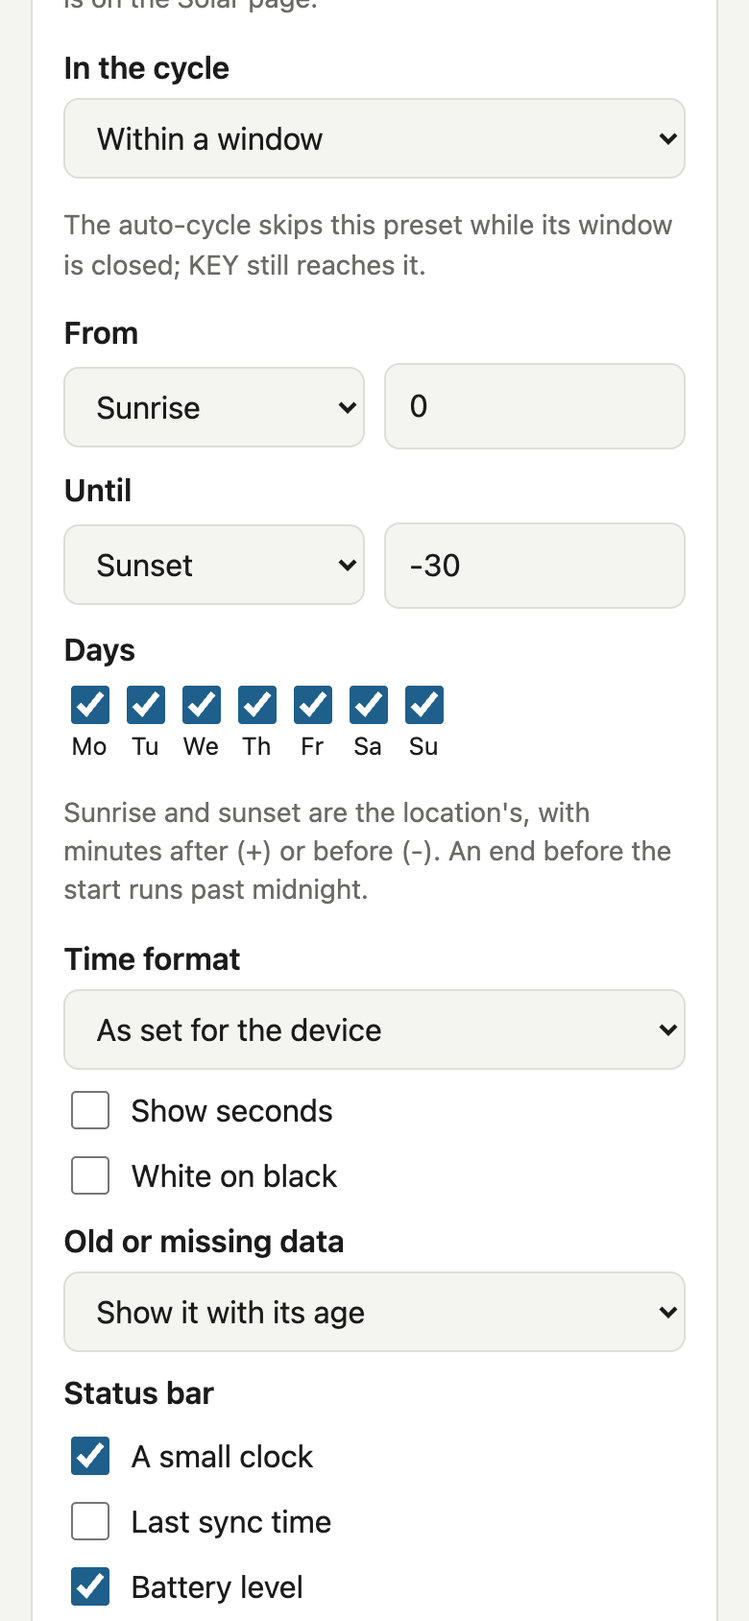
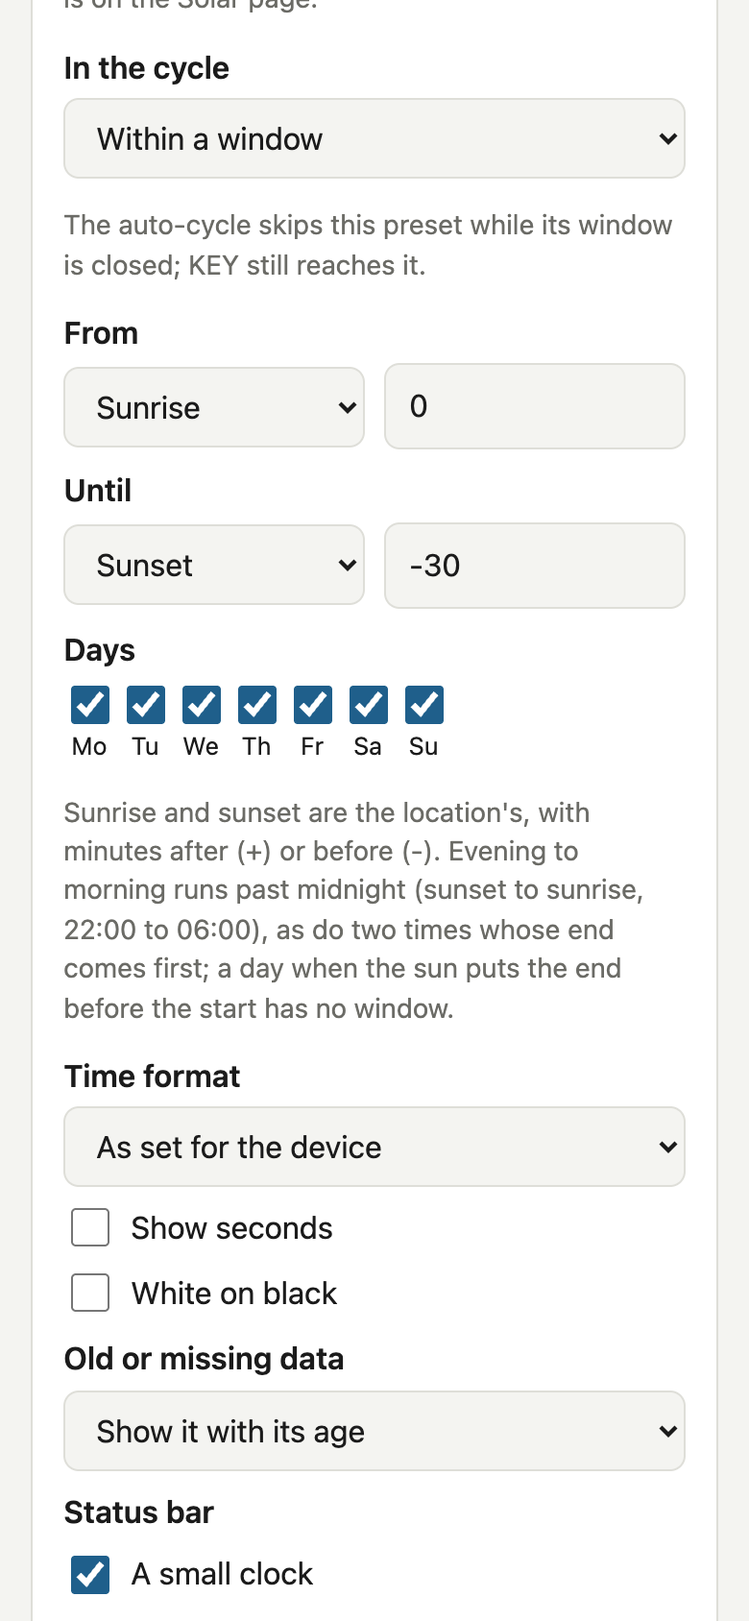
docs: the owner's midnight rule for cycle windows (spec r49, D41)
A window with a sun end runs past midnight only from an evening end to a
morning end; on a day the sun puts its end first it stays closed (§1.2, §5.4,
§17, AGENTS D41). §20 takes the final review's minors and drops the polar
edges the rule removed; the cycle timer's line no longer names preset window,
and the guide says which devices get Solar's window. The Presets page's help
text in its shot follows the rule.

diff --git a/docs/specs/2026-09-25-firmware-design.md b/docs/specs/2026-09-25-firmware-design.md
@@ -80,7 +80,7 @@ reflbo turns the Waveshare ESP32-S3-RLCD-4.2 into a battery-powered desk display
 | D38 | Owner, 2026-10-06 (M6d acceptance): a power under 1 kW shows in whole watts, as the SolaX app does ("382 W", not "0.38 kW"), on every field, the Solar and Energy layouts and the flow; the flow, whose heading carries one unit, shows W while all its powers are under 1 kW. Solcast's check with the owner's key waits for later | "0.39 kW" and "0.00 kW" told less than the app's watts in the evening; the flow's numbers have no room for units of their own |
 | D39 | Owner, 2026-10-06 (M6d acceptance): the Developer API's solar output is the app's figure, what the panels give through the inverter (its AC output, with a battery's charge, at most the panels' DC power), not the panels' DC power; the past bars from SolaX's 5-minute history stay an option for later (§19); the owner's roof checked; the power measurement and Solcast's check come at the project's end; this build becomes `stable-m6d` | The app's Solar equals Home when the grid is at 0 (382 W both): it shows the inverter's output, about 5 % under the panels' 1471 W against 1397 W |
 | D40 | Owner, 2026-10-06 (M7's plan refreshed against M6c and M6d, D33): M7 also brings an MQTT source for the house's energy, beside SolaX's two (§11.6, §12.11); state labels for text fields and a time kind for timestamps, so any HA entity reads well on the panel (§12.5); HA's `unknown` and `unavailable` count as no value; the device publishes no `pv.*` or `energy.*` values to HA; the checks with HA still wait for the owner's broker; the plan runs Native | Any HA entity as a field was the aim (D7); raw states (`on`, `not_home`) and timestamps read badly; the owner's house may report its energy to HA by other means than SolaX Cloud |
-| D41 | Owner, 2026-10-09: presets get a cycle window (§5.4): from and until, each a local time or sunrise or sunset with an offset of up to 3 h, crossing midnight when until comes first, and the days it opens on; only the auto-cycle skips a preset whose window is closed: KEY short, the schedule, the menu, the web UI and HA still reach it, and a preset on screen when its window closes stays until the cycle's next step; built now as M6e, before M7. M7 also publishes the sync's status to HA (Sync problem, Sync error, Last successful sync, Next sync; §12.2, §12.3), built with M7. Sync now stays where it is (Menu ▸ Sync ▸ Sync now) | The Solar preset says little after sundown, so it should leave the cycle then and come back in the morning; HA should know when the board's syncs fail |
+| D41 | Owner, 2026-10-09: presets get a cycle window (§5.4): from and until, each a local time or sunrise or sunset with an offset of up to 3 h, crossing midnight when until comes first, and the days it opens on; only the auto-cycle skips a preset whose window is closed: KEY short, the schedule, the menu, the web UI and HA still reach it, and a preset on screen when its window closes stays until the cycle's next step; built now as M6e, before M7. M7 also publishes the sync's status to HA (Sync problem, Sync error, Last successful sync, Next sync; §12.2, §12.3), built with M7. Sync now stays where it is (Menu ▸ Sync ▸ Sync now). Owner, 2026-10-19 (M6e's final review): a window with a sun end runs past midnight only from an evening end to a morning end, so ends that swap order with the seasons leave it closed rather than a day long | The Solar preset says little after sundown, so it should leave the cycle then and come back in the morning; HA should know when the board's syncs fail |
 | D42 | Owner, 2026-10-12 (asked in the T5 fork, its DT14, and backported): a preset can be exported from the web page to a file and imported on another device; every slot and split cell can carry its own title in place of its field's label; a split cell can show its title always, whatever its size (§5.2, §5.4, §10.3) | A split preset built on one device is wanted on another, and the owner's sensors and entities want the owner's names |
 | D43 | Owner, 2026-10-13 (asked in the T5 fork, its DT15, and backported): a preset can show the last good sync's time in the status bar, on the left after the marks; today's time, an earlier day's weekday and time, a date after a week (§5.2, §5.4, §10.3) | How old the data is, at a glance, without opening the menu |
 
@@ -474,8 +474,8 @@ A preset is a layout, a slot → field binding and a set of options. Presets are
   - A preset entry's switch is not saved, like an auto-cycle switch.
   - Until the web UI (M4), the `schedule` console command edits the entries (§15).
 - **Cycle windows** (M6e, D41). A preset may carry `"window": { "from": "sunrise", "until": "sunset-30", "days": 127 }`, beside `in_cycle`: the auto-cycle visits it only while its window is open.
-  - A bound is a local time, `"HH:MM"`, or `"sunrise"` or `"sunset"` with an optional offset of 1–180 minutes (`"sunset+30"`, `"sunrise-15"`). Sun times are those of the day the bound falls on, at the device's location (`astro`, §11). Where the sun doesn't rise or set that day, a polar day runs from midnight to midnight (sunrise at 00:00, sunset at 24:00) and a polar night the other way round (sunrise at 24:00, sunset at 00:00). As built: r45's 12:00 for both ends of a polar night made sunrise → sunset a day-long window. So in a polar night sunrise → sunset is empty and sunset → sunrise spans the day; the first day after a polar night opens sunrise → sunset at midnight, and a window with one sun end and one clock end is open for part of a polar night's day.
-  - A window opens on each day `days` names (the schedule's Mon–Sun mask, every day when missing) at `from`, and closes at `until` that day, or the next day when `until` comes at or before `from` that day: `sunset` → `sunrise` spans the night. A local time that a DST change skips counts from the next valid minute, as alarms do (§9.2). As built, two clock ends cross midnight by the clock face, when `until` is at or before `from`: 02:00–02:30 on the spring-forward night, both ends falling at 03:00, is empty that night rather than a day long. A sun end can fall on the day before: `sunrise-180` where the sun rises at 01:00 opens the window at 22:00 the evening before its day.
+  - A bound is a local time, `"HH:MM"`, or `"sunrise"` or `"sunset"` with an optional offset of 1–180 minutes (`"sunset+30"`, `"sunrise-15"`). Sun times are those of the day the bound falls on, at the device's location (`astro`, §11). Where the sun doesn't rise or set that day, a polar day runs from midnight to midnight (sunrise at 00:00, sunset at 24:00) and a polar night the other way round (sunrise at 24:00, sunset at 00:00). As built: r45's 12:00 for both ends of a polar night made sunrise → sunset a day-long window. So in a polar night sunrise → sunset is empty and sunset → sunrise spans the day.
+  - A window opens on each day `days` names (the schedule's Mon–Sun mask, every day when missing) at `from`, and closes at `until`: the same day, or the next day for a window that runs past midnight. Whether it does is decided by its ends, not by a day's sun (owner, 2026-10-19, D41): two clock ends by the clock face, when `until` is at or before `from` (`22:00` → `06:00`); with a sun end, from an evening end (`sunset` with any offset, or a time from 12:00) to a morning end (`sunrise` with any offset, or a time before 12:00): `sunset` → `sunrise` and `22:00` → `sunrise` span the night. On a day when the sun puts the end at or before the start, the window stays closed: `18:00` → `sunset` in winter, `06:00` → `sunrise` in summer, `sunrise` → `sunset` in a polar night, and the first day after one opens at its sunrise. (Until 2026-10-19 each day decided from its own sun times, so such a window ran almost a day for months.) A local time that a DST change skips counts from the next valid minute, as alarms do (§9.2); 02:00–02:30 on the spring-forward night, both ends falling at 03:00, is empty that night rather than a day long. A sun end can fall on the day before: `sunrise-180` where the sun rises at 01:00 opens the window at 22:00 the evening before its day.
   - Only the auto-cycle looks at windows: it steps to the next preset in cycle order whose window is open (Flights still only in sync mode `always`), and keeps the one shown when none is. KEY short, `cmd/next` (§12.4), schedule entries, the menu, the web UI and HA's select still reach every preset. A preset on screen when its window closes stays until the cycle's next step; with the auto-cycle off it stays.
   - Without a valid time every window counts as open, as the schedule's entries don't run then either.
   - A preset without `window` is always open, so earlier files work unchanged.
@@ -1382,7 +1382,7 @@ pyserial comes from the ESP-IDF Python environment. The generators run through `
   - M6d (D35, D36): the PV model against known irradiance and temperatures; each forecast parser on recorded replies (Open-Meteo, Forecast.Solar with and without a key, Solcast) and their refusals; the local quarter hours across DST, the midnight roll-over, Solcast's budget; the SolaX parser on recorded replies (a string inverter, a hybrid, `success: false`), the signs, the battery's auto rule, the midnight totals and the quarter-hour actuals; `sync.steps`, `solar.*` and `energy.*` in the settings and the steps that are off in the sync plan; the `pv.*` and `energy.*` fields and widgets; goldens of the spike's renders (the Solar and Energy layouts with their variants, the fields in Classic, Grid, Weather and Focus); the Solar page and the step switches against the fake device, the keys write-only.
   - As built (M6d): `test_solar`, `test_energy`, `test_energy_dev` (D37: the requests, the token's, plants', devices', real-time and statistics replies and their refusals, the signs in a residential and a commercial plant, a hybrid's battery, the reading with and without today's row), `test_settings` (the steps, the sources, the region, the keys never in the file), `test_ui_fields`, `test_ui_solar`, `test_ui_widget_fit` (every cell size, fifteen sets of data, about 40 s, 4 min under ASan), `test_ui_preset`, `test_ui_menu`, `test_sync_plan`, `test_util_url`, `test_util_json` and twelve goldens; 66 host targets, all also under ASan and UBSan; 54 page tests. Task 12 checked on the board: the layouts with the sample day, Open-Meteo and Forecast.Solar through Check now, keys write-only through the API, a switched-off step making no request, the forecast through deep sleep and a cold boot, the heap, the stack and a sync's length, and a restore of the owner's configuration.
   - M6e (D41): a cycle window's bounds (times, sunrise and sunset with offsets, across midnight, the days, a DST change, polar days and nights), the auto-cycle's rule (a closed window skipped, KEY short not, none open), `presets.json`'s windows (a round trip and the refusals), and the page's window editor.
-  - As built (M6e): `test_ui_window` (new: the bounds' words, the rules, open and change times in Brno, Reykjavik and Longyearbyen, across both DST changes, polar days and nights, a window opening the evening before) and `test_ui_preset` (the windows in the file and their refusals, the auto-cycle's step, Solar's window, the longest refusal whole in `UI_PRESET_ERR_LEN`); 67 host targets and 58 page tests at M6e, 69 and 73 with D42 and D43. Task 5 checked on the board (2026-10-19): the console's refusals; a window closing while the cycle ran every 10 s, after which the cycle kept the other preset and KEY still reached the closed one; Solar's state following a move to Sydney without a restart; the page's window editor and its refusal before a save; the windows through a restart, a deep sleep and `stable-m6d` reading the file; a restore of the owner's configuration. Then, with main's D42 and D43: titles and forced titles on the panel, Export and Import on the board's page, the last sync's time after a sync, and a refusal's whole reason in the preview.
+  - As built (M6e): `test_ui_window` (new: the bounds' words, the rules, open and change times in Brno, Reykjavik and Longyearbyen, across both DST changes, polar days and nights, a window opening the evening before, ends that swap order with the seasons) and `test_ui_preset` (the windows in the file and their refusals, the auto-cycle's step, Solar's window, the longest refusal whole in `UI_PRESET_ERR_LEN`); 67 host targets and 58 page tests at M6e, 69 and 73 with D42 and D43. Task 5 checked on the board (2026-10-19): the console's refusals; a window closing while the cycle ran every 10 s, after which the cycle kept the other preset and KEY still reached the closed one; Solar's state following a move to Sydney without a restart; the page's window editor and its refusal before a save; the windows through a restart, a deep sleep and `stable-m6d` reading the file; a restore of the owner's configuration. Then, with main's D42 and D43: titles and forced titles on the panel, Export and Import on the board's page, the last sync's time after a sync, and a refusal's whole reason in the preview.
   - Preset and settings JSON: validation and migrations.
   - Config files: the atomic write and the `.bak` fallback, in a scratch directory.
   - M7: `ha_mqtt`'s topics, golden JSON for every discovery entity and the state, payload parsing (numbers, text, `json_path`), commands, the mappings' codec and validation, the discovery hash and `expire_after`; the `mqtt.<key>` and `ha.message` fields, goldens of the message banner, presets with an unmapped key; the MQTT step not failing a sync; the MQTT page against the fake device (the write-only password, the mappings editor, Test connection).
@@ -1542,8 +1542,9 @@ Owner question, 2026-10-01, after the flight radar; MeteoPlaneRadar shows one to
 | Open after M6c's review (minors): narrow one-line XS pollen cuts its word where its level bar fits; an XS date in a 40–43 px one-line cell cuts its weekday where the day alone fits; a 12-hour clock in narrow stacked XS cells loses AM/PM though there is room under it; S pollen's level word is cut in narrow short cells; the ↓/↑ mark crowds a negative value in narrow short S cells; the largest-values test data's PM is 255, which means none, so it isn't drawn; the cut and stale-mark checks run on sampled XS and short-S sizes, not on all 2451; Weather's 200×118 slots draw the air quality's word 2 px further left, and a Czech holiday whole without its icon, and Classic's slots draw polar words in sans 12; a cell 1 px wider can draw its value smaller across XS and S; the editor's 28 px a level crowds deep trees on a phone | Deferred (D25's rule): raised where a later milestone touches their code |
 | Open after M6d's reviews (minors): the plan's four: the battery's auto rule lists SolaX's V4.0 hybrid types 2, 3, 5, 10 and 13 but not the G4 ones (14, 15 and maybe more; a charge above 0 % covers a battery that reports one); "No solar forecast yet", and the Energy layout's "No data from the inverter yet", also show when an old forecast or reading has expired; Solcast's first fetch after sunrise makes today the rest of the day, so the morning comes from the last forecast or not at all; there is no daily count of Solcast's calls (the 3 h and 6 h waits keep under 10). The execution's five: SolaX's own refusal text can be cut inside a UTF-8 character (the panel's decoder stops cleanly at it); a Sync ▸ Steps switch in the menu plans no sync (turning Weather on with no forecast waits for the next scheduled one); Check now during `always`' 5-minute refresh answers 409 instead of waiting for it; the Sync page shows "kept: kept" for Solcast's budget; `solar.bin` is rewritten after a failed Open-Meteo or Forecast.Solar step though nothing in it changed | Raised at M7's planning, where M7 touches their code (D25's rule) |
 | Open after D37's review (minors, 2026-10-06): finding the battery and the meter is all or nothing, and a refusal on the residential plant page ends the search; credentials changed while a step runs can bring the old token and plant back, and a region change resets neither (a generation counter would tie them); `dev_login`'s form body, which holds the secret, isn't wiped after the POST; a numeric `plantId` is read from its first mention in the reply, and only its leading digits; a statistics row dated by its day number alone is missed; `mpptMap` adds every key ending in "Power", a total key included; the battery's auto rule ignores a battery device that was found; the sync task's stack (10 KB) hasn't been measured on the Developer API's deeper path; `energy raw` keeps the last Developer API replies after a switch to the Token ID, and cuts each at 2 KB without a mark; `read_solar` falls back to the constant region, and two comments are stale | Raised at M7's planning; the stack and the replies' forms are checked with `energy raw` and a high-water mark at M6d's acceptance |
-| Open after M6e's review (minors): polar edges as ruled (the first day after a polar night opens sunrise → sunset at midnight, and mixed ends open in a polar night, §5.4); a closed window still scans ahead for its opening when the cycle's step asks no change time; `ui_window.c` repeats `ui_forecast.c`'s sun cache, keyed without the zone; the page shows a stored end it can't read (an offset of 1.5, a cleared time) as 07:00 after a re-render, while Save refuses it; while any window is bad, every preview fails; "In the cycle: All day" shows on presets outside the cycle, and `preset window … off` says "always in the cycle" for one outside it; no host test of a location change, nor page tests of a copied windowed preset and an offset of 1.5; two compound literals leave a padding byte unspecified where a test compares memory; the console reads days in octal from a leading zero, as `schedule add` does | Fix where later work touches the code. The review's tenth, a refusal cut at 96 bytes, was fixed after the board checks found it in the preview too, for any id of four characters or more (`UI_PRESET_ERR_LEN`) |
-| The auto-cycle's first step after the presets are saved (the web page, a restore, `preset window`) waits for the next tick, the next display update at the default, plus the interval: the save clears the cycle's timer, which the next tick arms (found at M6e's board checks; older than M6e) | Up to a minute late at the default; noted, not changed |
+| Open after M6e's review (minors): a closed window still scans ahead for its opening when the cycle's step asks no change time; `ui_window.c` repeats `ui_forecast.c`'s sun cache, keyed without the zone; the page shows a stored end it can't read (an offset of 1.5, a cleared time) as 07:00 after a re-render, while Save refuses it; while any window is bad, every preview fails; "In the cycle: All day" shows on presets outside the cycle, and `preset window … off` says "always in the cycle" for one outside it; no host test of a location change, nor page tests of a copied windowed preset and an offset of 1.5; two compound literals leave a padding byte unspecified where a test compares memory; the console reads days in octal from a leading zero, as `schedule add` does | Fix where later work touches the code. The review's tenth, a refusal cut at 96 bytes, was fixed after the board checks found it in the preview too, for any id of four characters or more (`UI_PRESET_ERR_LEN`); the polar edges went with the midnight rule of 2026-10-19 (§5.4) |
+| Open after M6e's final review (minors, 2026-10-19): `preset window` prints the window as saved even when `presets.json` wasn't written; a window's `"days": null` is refused, where a missing key means every day; a change a week ahead prints like one today ("closed until Fri 07:00" on a Friday after it); switching both ends to a time on the page gives 07:00–07:00, which Save refuses; the list's window summary squeezes the preset's name at phone width | Fix where later work touches the code |
+| The auto-cycle's first step after the presets are replaced (the web page's save, a restore) waits for the next tick, the next display update at the default, plus the interval: the save clears the cycle's timer, which the next tick arms (found at M6e's board checks; older than M6e) | Up to a minute late at the default; noted, not changed |
 | The board went mute again at M6e's checks (2026-10-19), after a console `reboot` in config mode: the log ended in Wi-Fi's shutdown, then nothing; the port stayed, KEY didn't wake it, and esptool got no answer. The core dump partition held only an older image's dump, so it hung rather than panicked | A power cycle recovers it (`AGENTS.md` §6); the cause is still unknown |
 | `version`'s build date is the app description's, compiled once per clean build, so two builds can show the same date (M6d's board checks) | Only the ELF hash in the same line tells builds apart (`AGENTS.md`, gotcha 44) |
 | The web UI moving focus to a text box on a phone (owner, 2026-09-30) | Not reproduced in iOS 26 Safari; waiting for the phone and browser |
@@ -1601,3 +1602,4 @@ Owner question, 2026-10-01, after the flight radar; MeteoPlaneRadar shows one to
 | r46 | 2026-10-12 | The owner's request in the T5 fork (D42): §1.2; a slot's and cell's own title and a cell's forced title (§5.2, §5.4); the snapshot's cap at 7 KB (§6); the Presets page's titles, Export and Import (§10.3) |
 | r47 | 2026-10-13 | The owner's request in the T5 fork (D43): §1.2; the last good sync's time in the status bar (§5.2), the `status_sync` option (§5.4), its box on the Presets page (§10.3) |
 | r48 | 2026-10-19 | M6e as built (D41): the cycle windows' polar nights, clock ends across midnight, the evening before, the bounds' bytes, the shared words and the largest file (§5.4); the snapshot with M6e and D43 (§6); `preset list`'s window lines (§15); the tests and the board checks (§17); M6e built (§18); the review's minors and the checks' findings (§20) |
+| r49 | 2026-10-19 | The owner's midnight rule after M6e's final review (D41): a window with a sun end runs past midnight only from evening to morning (§1.2, §5.4, §17, §20) |

diff --git a/AGENTS.md b/AGENTS.md
@@ -29,7 +29,7 @@ Guiding principles:
 
 ## 2. Status and roadmap
 
-- **Status:** M0 and M1 are done. M0: toolchain, skeleton, USB console, host tests and `devlog.py`. M1: ST7305 driver, `gfx` with fonts, the `display` service, screenshots over USB, host rendering with a golden test pattern; the owner checked the physical panel. M2 is done: board services, the clock screen and both idle strategies; the owner's measurements picked light sleep (D3). M3 runs as two plans. M3a is done: LittleFS config files, the datastore with the extra fields, the English pack, four layouts with widgets and a status bar, and presets that KEY switches and auto-cycles and that survive a reboot. M3b is done: the on-device menu with settings editing, toasts and the critical-battery screen, the preset schedule with timed night sleep, and the Czech pack with its public holidays. On 2026-09-30 the owner checked preset switching, a held KEY and BOOT, the menu buttons and timeout, and the Czech panel. Two owner checks wait for a later session at the owner's request: the night-sleep current (D15) and the night peek, which needs a night started from the console (`night <minutes>`) or from a schedule, which the web UI now edits. M4 is built: the Wi-Fi manager with the device's own network and captive portal, config mode with its QR screen, the web configurator with its API and a live preset preview, setting the time from a phone, and firmware updates with rollback. M4 is done once the owner has set up Wi-Fi from a phone and updated the firmware from the page (Owner acceptance in the M4 plan). The M4 review's fixes are in (spec r16). Owner acceptance, 2026-09-30: Wi-Fi from a phone works; the page's feedback is handled (D20, spec r17); the update from the page and the first run wait for a later session at the owner's request. M5 is built (plan below): our own SNTP client sets the RTC to the millisecond and trims it (D25); Open-Meteo brings the forecast, air quality, pollen and UV; sunrise and sunset are computed on the device; syncs follow the schedule with quiet hours and retries, or keep Wi-Fi up in sync mode `always` with the web UI on the LAN; the forecast widgets draw Weather Icons (D26); the menu has a Sync section, the console `sync now|status`, the web UI a Sync page and a place search. Its board checks (the plan's Task 15) passed on 2026-10-01, after the fixes they and the final review found (spec r27). The owner's acceptance (M5 plan) waits for a later session at the owner's request (2026-10-01): a sync on battery, the new widgets on the panel, the RTC trim over three daily syncs (2026-10-02 to 10-04, with no Sync now, manual set or power-off between them), the power measurements, sync mode `always` on the LAN, and the Wi-Fi mark with the router off. The web password was reset during the checks, so the owner chooses it again over the device's own network. M6 is built (spec r31): the map with GeoNames' towns (D29), the weather radar with its loop, the flight radar with routes, rain in the next 2 hours and the Radar page; a review of the whole run and its fixes are in, and its board checks passed on 2026-10-02 (the plan's Task 15). The owner's acceptance (Owner acceptance in the M6 plan) waits: the goldens, the panel's legibility, the loop and the aircraft at the board, and the power measurements. The board checks restarted M5's RTC-trim count. M6b is built (spec r33, plan below): the split layout with its web editor, and BOOT double for sync mode `always`; a review of the whole run and its fixes are in (numbers fit their slot's height, the weather widgets fit frost and °F heat), and its board checks passed on 2026-10-02 (the plan's Task 6). The owner's acceptance (Owner acceptance in the M6b plan) waits: the goldens, a split preset built in the editor on the panel, BOOT double with the buttons. The home network is now "Kremikove_nebe" (2026-10-02; "TriDva" forgotten). M7 is designed (D32, spec r34): MQTT and Home Assistant, with HA buttons, key-press triggers and a message; its plan is written (below) and waits for the owner's review. There is no broker or HA yet, so its checks with HA wait for the owner's setup, and a stable build is flashed back after every MQTT/HA test (§6; `stable-m6b` then, `stable-m6d` from 2026-10-06). On 2026-10-04 the owner put M7 on hold (D33): M6c, split cells down to 40×20 (D34), and M6d, a solar forecast and the house's energy from SolaX Cloud, with switches for the sync's steps (D35, D36), come first. Both are designed (spec r35); the owner approved their designs from a throwaway spike's panel renders (local branch `spike/m6cd`). M6c is built (spec r36, plan below): split cells down to 40×20 and up to 24, the XS size and S in short cells; a review of the whole run and its fixes are in, and its board checks passed on 2026-10-04 (the plan's Task 5). The owner's acceptance (Owner acceptance in the M6c plan) waits: the goldens, a small-cell preset built in the editor on the phone, XS cells read at the panel. The checks reset the web password, so the owner chooses theirs again over the device's own network. M6d is built (spec r38, plan below): the PV forecast from Open-Meteo through our model, Forecast.Solar or Solcast, with up to 2 roof planes; the house's energy from SolaX Cloud, by its Developer API (D37) or a Token ID; the `pv.*` and `energy.*` fields with the chart and the flow, the Solar and Energy layouts and presets; switches for the sync's data steps (Sync ▸ Steps and the Sync page); the Solar page with Check now; `solar.bin`; `solar status|demo`, `energy raw`. A review of the whole run and its fixes are in, and its board checks passed on 2026-10-05 (the plan's Task 12, Steps 0–11). There the owner's SolaX account turned out to have no Token ID, so the Developer API joined as a second source (D37), with today's totals from SolaX's statistics; the owner's own keys gave a reading the same day. A fresh review of D37 found no Critical issue and two Important ones, both fixed (spec r39): a retry only on SolaX's refusals, and a reply whose `dataTime` can't be read refused. The owner saw the layouts on the panel (2026-10-06) and asked for watts under 1 kW (D38). The owner's checks on 2026-10-06: the panel and the owner's roof look good; the SolaX reading matches the app since the house's use takes the inverter's phases and solar the app's figure (D39). The power measurement and Solcast with the owner's key wait for the project's end (D39); this build is `stable-m6d` (§6). M7's plan is refreshed against M6c and M6d, with D40's additions (plan below); it waits for the owner's broker and HA, and runs Native. On 2026-10-09 the owner asked for cycle windows per preset, now, as M6e (D41), and for the sync's status in HA with M7, whose plan is refreshed again before it runs; Sync now stays in Menu ▸ Sync. M6e is built (spec r48, plan below): a window per preset, from and until each a time or sunrise or sunset with an offset, and its days; the auto-cycle skips a preset whose window is closed, while KEY and the rest still reach it; `preset window` on the console and "In the cycle" on the Presets page. Its board checks passed on 2026-10-19 (the plan's Task 5), on an M6e-only image and then on main with D42 and D43; they found a preset's refusal cut short in the preview, now whole (`UI_PRESET_ERR_LEN`). The owner's acceptance (Owner acceptance in the M6e plan) waits: Solar has the window sunrise → sunset and the auto-cycle is on, every 60 s, for it, and the board runs main. On 2026-10-12 the owner asked, in the T5 fork, for titles of their own on slots and cells, a split cell's forced title, and a preset's export and import (D42, spec r46); built in the fork and backported on the branch `feat/titles-share` with host and page tests (68 ctest targets, 72 page tests); the owner approved the `split_titles` render (its golden is in); it passed its RLCD board check on 2026-10-19 (titles and forced titles on the panel, Export and Import on the board's page). On 2026-10-13 the owner asked, in the fork too, for the last good sync's time in the status bar, a preset's option (D43, spec r47); built in the fork and backported on the branch `feat/status-sync`, on top of `feat/titles-share`, with a cloud and a check before the time when no mark precedes it (owner, 2026-10-14); the owner approved the `home_sync_time` and `home_sync_old` renders (their goldens are in); it passed its RLCD board check on 2026-10-19 (the time after a sync on the panel).
+- **Status:** M0 and M1 are done. M0: toolchain, skeleton, USB console, host tests and `devlog.py`. M1: ST7305 driver, `gfx` with fonts, the `display` service, screenshots over USB, host rendering with a golden test pattern; the owner checked the physical panel. M2 is done: board services, the clock screen and both idle strategies; the owner's measurements picked light sleep (D3). M3 runs as two plans. M3a is done: LittleFS config files, the datastore with the extra fields, the English pack, four layouts with widgets and a status bar, and presets that KEY switches and auto-cycles and that survive a reboot. M3b is done: the on-device menu with settings editing, toasts and the critical-battery screen, the preset schedule with timed night sleep, and the Czech pack with its public holidays. On 2026-09-30 the owner checked preset switching, a held KEY and BOOT, the menu buttons and timeout, and the Czech panel. Two owner checks wait for a later session at the owner's request: the night-sleep current (D15) and the night peek, which needs a night started from the console (`night <minutes>`) or from a schedule, which the web UI now edits. M4 is built: the Wi-Fi manager with the device's own network and captive portal, config mode with its QR screen, the web configurator with its API and a live preset preview, setting the time from a phone, and firmware updates with rollback. M4 is done once the owner has set up Wi-Fi from a phone and updated the firmware from the page (Owner acceptance in the M4 plan). The M4 review's fixes are in (spec r16). Owner acceptance, 2026-09-30: Wi-Fi from a phone works; the page's feedback is handled (D20, spec r17); the update from the page and the first run wait for a later session at the owner's request. M5 is built (plan below): our own SNTP client sets the RTC to the millisecond and trims it (D25); Open-Meteo brings the forecast, air quality, pollen and UV; sunrise and sunset are computed on the device; syncs follow the schedule with quiet hours and retries, or keep Wi-Fi up in sync mode `always` with the web UI on the LAN; the forecast widgets draw Weather Icons (D26); the menu has a Sync section, the console `sync now|status`, the web UI a Sync page and a place search. Its board checks (the plan's Task 15) passed on 2026-10-01, after the fixes they and the final review found (spec r27). The owner's acceptance (M5 plan) waits for a later session at the owner's request (2026-10-01): a sync on battery, the new widgets on the panel, the RTC trim over three daily syncs (2026-10-02 to 10-04, with no Sync now, manual set or power-off between them), the power measurements, sync mode `always` on the LAN, and the Wi-Fi mark with the router off. The web password was reset during the checks, so the owner chooses it again over the device's own network. M6 is built (spec r31): the map with GeoNames' towns (D29), the weather radar with its loop, the flight radar with routes, rain in the next 2 hours and the Radar page; a review of the whole run and its fixes are in, and its board checks passed on 2026-10-02 (the plan's Task 15). The owner's acceptance (Owner acceptance in the M6 plan) waits: the goldens, the panel's legibility, the loop and the aircraft at the board, and the power measurements. The board checks restarted M5's RTC-trim count. M6b is built (spec r33, plan below): the split layout with its web editor, and BOOT double for sync mode `always`; a review of the whole run and its fixes are in (numbers fit their slot's height, the weather widgets fit frost and °F heat), and its board checks passed on 2026-10-02 (the plan's Task 6). The owner's acceptance (Owner acceptance in the M6b plan) waits: the goldens, a split preset built in the editor on the panel, BOOT double with the buttons. The home network is now "Kremikove_nebe" (2026-10-02; "TriDva" forgotten). M7 is designed (D32, spec r34): MQTT and Home Assistant, with HA buttons, key-press triggers and a message; its plan is written (below) and waits for the owner's review. There is no broker or HA yet, so its checks with HA wait for the owner's setup, and a stable build is flashed back after every MQTT/HA test (§6; `stable-m6b` then, `stable-m6d` from 2026-10-06). On 2026-10-04 the owner put M7 on hold (D33): M6c, split cells down to 40×20 (D34), and M6d, a solar forecast and the house's energy from SolaX Cloud, with switches for the sync's steps (D35, D36), come first. Both are designed (spec r35); the owner approved their designs from a throwaway spike's panel renders (local branch `spike/m6cd`). M6c is built (spec r36, plan below): split cells down to 40×20 and up to 24, the XS size and S in short cells; a review of the whole run and its fixes are in, and its board checks passed on 2026-10-04 (the plan's Task 5). The owner's acceptance (Owner acceptance in the M6c plan) waits: the goldens, a small-cell preset built in the editor on the phone, XS cells read at the panel. The checks reset the web password, so the owner chooses theirs again over the device's own network. M6d is built (spec r38, plan below): the PV forecast from Open-Meteo through our model, Forecast.Solar or Solcast, with up to 2 roof planes; the house's energy from SolaX Cloud, by its Developer API (D37) or a Token ID; the `pv.*` and `energy.*` fields with the chart and the flow, the Solar and Energy layouts and presets; switches for the sync's data steps (Sync ▸ Steps and the Sync page); the Solar page with Check now; `solar.bin`; `solar status|demo`, `energy raw`. A review of the whole run and its fixes are in, and its board checks passed on 2026-10-05 (the plan's Task 12, Steps 0–11). There the owner's SolaX account turned out to have no Token ID, so the Developer API joined as a second source (D37), with today's totals from SolaX's statistics; the owner's own keys gave a reading the same day. A fresh review of D37 found no Critical issue and two Important ones, both fixed (spec r39): a retry only on SolaX's refusals, and a reply whose `dataTime` can't be read refused. The owner saw the layouts on the panel (2026-10-06) and asked for watts under 1 kW (D38). The owner's checks on 2026-10-06: the panel and the owner's roof look good; the SolaX reading matches the app since the house's use takes the inverter's phases and solar the app's figure (D39). The power measurement and Solcast with the owner's key wait for the project's end (D39); this build is `stable-m6d` (§6). M7's plan is refreshed against M6c and M6d, with D40's additions (plan below); it waits for the owner's broker and HA, and runs Native. On 2026-10-09 the owner asked for cycle windows per preset, now, as M6e (D41), and for the sync's status in HA with M7, whose plan is refreshed again before it runs; Sync now stays in Menu ▸ Sync. M6e is built (spec r49, plan below): a window per preset, from and until each a time or sunrise or sunset with an offset, and its days; the auto-cycle skips a preset whose window is closed, while KEY and the rest still reach it; `preset window` on the console and "In the cycle" on the Presets page. Its board checks passed on 2026-10-19 (the plan's Task 5), on an M6e-only image and then on main with D42 and D43; they found a preset's refusal cut short in the preview, now whole (`UI_PRESET_ERR_LEN`). The final review found that a window whose ends swap order with the seasons (18:00 → sunset in winter) ran almost a day; the owner chose the rule that a window with a sun end runs past midnight only from evening to morning (D41). The owner's acceptance (Owner acceptance in the M6e plan) waits: Solar has the window sunrise → sunset and the auto-cycle is on, every 60 s, for it, and the board runs main. On 2026-10-12 the owner asked, in the T5 fork, for titles of their own on slots and cells, a split cell's forced title, and a preset's export and import (D42, spec r46); built in the fork and backported on the branch `feat/titles-share` with host and page tests (68 ctest targets, 72 page tests); the owner approved the `split_titles` render (its golden is in); it passed its RLCD board check on 2026-10-19 (titles and forced titles on the panel, Export and Import on the board's page). On 2026-10-13 the owner asked, in the fork too, for the last good sync's time in the status bar, a preset's option (D43, spec r47); built in the fork and backported on the branch `feat/status-sync`, on top of `feat/titles-share`, with a cloud and a check before the time when no mark precedes it (owner, 2026-10-14); the owner approved the `home_sync_time` and `home_sync_old` renders (their goldens are in); it passed its RLCD board check on 2026-10-19 (the time after a sync on the panel).
 - **Design spec:** [`docs/specs/2026-09-25-firmware-design.md`](docs/specs/2026-09-25-firmware-design.md) is the authoritative design. The owner approved it on 2026-09-25. §5 below summarises it. If the two disagree, the spec wins; fix this file.
 - **User guide:** [`README.md`](README.md) gives the overview and [`docs/guide.md`](docs/guide.md) describes every feature for users, with images in `docs/images/`: the panel's from the goldens (`tools/docs_images.py`), the web pages' as phone screenshots against a demo device. Planned features are marked as planned there too.
 - **Plans:** each milestone gets its own implementation plan in `docs/plans/`, written just before that milestone starts. Latest plan: [`docs/plans/2026-10-09-m6e-cycle-windows.md`](docs/plans/2026-10-09-m6e-cycle-windows.md), M6e (D41). Its code was built on the branch `plan/m6e`, one commit per task (M7's refresh: `plan/m7r`, M6d's: `plan/m6d`, M6c's: `plan/m6c`, M6b's: `plan/m6b`, M6's: `plan/m6`; M7's first plan and `plan/m7` gave way to the refresh); the plans' tasks copy their goldens and fixtures from them.
@@ -446,6 +446,6 @@ Recorded 2026-09-25. Rationale is in spec §1.2.
 | D38 | Owner, 2026-10-06 (M6d acceptance): powers under 1 kW show in whole watts, as the SolaX app does, everywhere; the flow shows W while all its powers are under 1 kW; Solcast's check with the owner's key waits |
 | D39 | Owner, 2026-10-06 (M6d acceptance): the Developer API's solar is the app's figure, what the panels give through the inverter (its output with a battery's charge, at most the panels' DC); past bars from SolaX's 5-minute history are a later option (spec §19); roof checked; the power measurement and Solcast wait for the project's end; this build is `stable-m6d` |
 | D40 | Owner, 2026-10-06 (M7 refresh, D33): M7 also brings an MQTT source for the house's energy beside SolaX's two (spec §12.11); state labels for text fields and a time kind for timestamps, so any HA entity reads well (spec §12.5); HA's `unknown`/`unavailable` are no value; no `pv.*`/`energy.*` published to HA; HA checks still wait for the owner's broker; the plan runs Native |
-| D41 | Owner, 2026-10-09: presets get a cycle window (spec §5.4): from and until, each a time or sunrise or sunset with an offset of up to 3 h, across midnight when until comes first, and its days; only the auto-cycle skips a preset whose window is closed (KEY short, the schedule, the menu, the web UI and HA still reach it; one on screen when its window closes stays until the cycle's next step); built now as M6e. M7 publishes the sync's status to HA (Sync problem, Sync error, Last successful sync, Next sync; spec §12.2, §12.3), built with M7. Sync now stays in Menu ▸ Sync |
+| D41 | Owner, 2026-10-09: presets get a cycle window (spec §5.4): from and until, each a time or sunrise or sunset with an offset of up to 3 h, across midnight when until comes first, and its days; only the auto-cycle skips a preset whose window is closed (KEY short, the schedule, the menu, the web UI and HA still reach it; one on screen when its window closes stays until the cycle's next step); built now as M6e. M7 publishes the sync's status to HA (Sync problem, Sync error, Last successful sync, Next sync; spec §12.2, §12.3), built with M7. Sync now stays in Menu ▸ Sync. Owner, 2026-10-19: a window with a sun end runs past midnight only from an evening end (sunset, a time from 12:00) to a morning end (sunrise, a time before 12:00); on a day the sun puts its end first, it stays closed |
 | D42 | Owner, 2026-10-12 (asked in the T5 fork, `Vybo/reflbo-t5`, its DT14): a preset is exported from the web page to a file and imported on another device; every slot and split cell can carry its own title in place of its field's label; a split cell can show its title always, above or beside its value where the cell has room (spec §5.2, §5.4, §10.3). The titles share a 768-byte pool in the RTC snapshot, whose cap rises to 7 KB; with M7's additions it passes 7 KB, so M7's refresh moves the quarter-hour readings out of RTC or the pool into RTC FAST (spec §6) |
 | D43 | Owner, 2026-10-13 (asked in the T5 fork, `Vybo/reflbo-t5`, its DT15): a preset can show the last good sync's time in the status bar, after the marks on the left: today `14:05`, an earlier day `Mon 14:05`, a date after a week; `status_sync` in `presets.json`, "Last sync time" on the Presets page; kept through deep sleep, not a cold boot (spec §5.2) |

diff --git a/docs/guide.md b/docs/guide.md
@@ -144,12 +144,12 @@ A preset is a layout, its fields and its options. The device holds up to 16. It 
 | Focus clock | Focus |
 | Rain radar | Radar |
 | Flights | Flights; the cycle visits it only in sync mode Always on |
-| Solar | Solar; outside the cycle until you add it, then shown from sunrise to sunset |
+| Solar | Solar; outside the cycle until you add it. On a new device it comes with a window from sunrise to sunset; a device updated from an earlier version keeps its Solar as it was |
 | Energy | Energy; outside the cycle until you add it |
 
 KEY steps through the presets marked "cycle". KEY double starts or stops the auto-cycle, which switches every 10 s to 1 h. A preset chosen by hand stays chosen after a restart.
 
-A preset in the cycle can have a window: the auto-cycle then shows it only between two times of day, on the days you tick. Each end is a time, or sunrise or sunset at the device's location, up to 3 hours before or after (30 minutes before sunset, say). An end before the start runs past midnight, so sunset to sunrise covers the night. While a preset's window is closed the auto-cycle steps past it, and when no other preset is open it keeps the one on screen; a preset on screen when its window closes stays until the next step. KEY, the schedule, the menu and the web page still reach it at any time. Until the clock is set, every window counts as open.
+A preset in the cycle can have a window: the auto-cycle then shows it only between two times of day, on the days you tick. Each end is a time, or sunrise or sunset at the device's location, up to 3 hours before or after (30 minutes before sunset, say). A window from the evening to the morning runs past midnight, so sunset to sunrise covers the night, as does one between two times whose end comes first (22:00 to 06:00). On a day when the sun puts the end before the start, as with 18:00 to sunset in winter, the window stays closed. While a preset's window is closed the auto-cycle steps past it, and when no other preset is open it keeps the one on screen; a preset on screen when its window closes stays until the next step. KEY, the schedule, the menu and the web page still reach it at any time. Until the clock is set, every window counts as open.
 
 The console sets a window too, `preset window solar sunrise sunset-30` (and `preset window solar off`), and `preset list` says whether each window is open now and until when.
 
